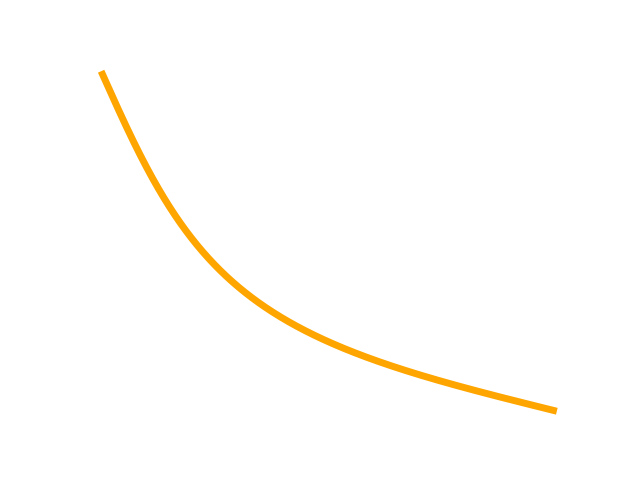
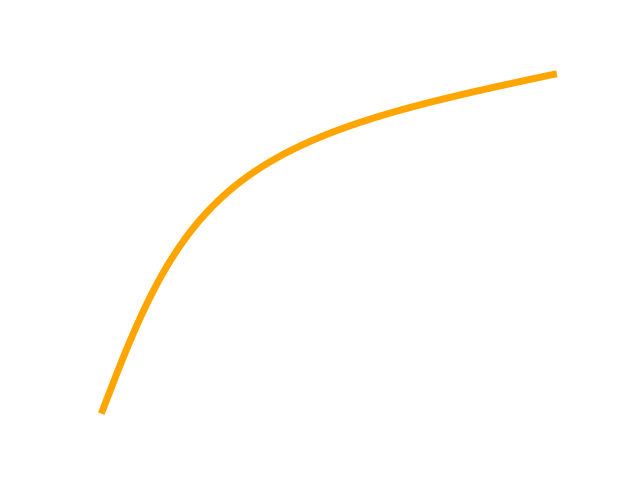
.

Changed region(s): [[0.1562, 0.125, 0.875, 0.875], [0.3438, 0.5625, 0.6562, 0.7812], [0.6562, 0.7812, 0.875, 0.875]]

diff --git a/Filter/filterDesignUI.py b/Filter/filterDesignUI.py
@@ -11,9 +11,9 @@ import webbrowser
 
 import icons as icons
 import pyqtgraph as pg
-from customPlotWidget_Mouse import CustomPlotWidget
+from Classes.customPlotWidget_Mouse import CustomPlotWidget
+from Classes.libraryButton import ProcessButton
 from filterDesignBackend import Backend
-from libraryButton import ProcessButton
 from PyQt5 import QtCore, QtGui, QtWidgets
 from PyQt5.QtCore import QRegExp
 from PyQt5.QtGui import QValidator
@@ -212,9 +212,16 @@ class Ui_FilterDesigner(object):
         self.allPassPhaseResponse.setLabel("bottom", "Frequency [rad/sample]")
         self.allPassPhaseResponse.setLabel("left", "Phase [radians]")
         self.verticalLayout_8.addWidget(self.allPassPhaseResponse)
-        self.applyAllPassFilter = QtWidgets.QPushButton(self.dockWidgetContents_3)
-        self.applyAllPassFilter.setObjectName("applyFilterButton_2")
-        self.verticalLayout_8.addWidget(self.applyAllPassFilter)
+        self.correctPhase = QtWidgets.QPushButton(self.dockWidgetContents_3)
+        self.correctPhase.setObjectName("applyFilterButton_2")
+        self.verticalLayout_8.addWidget(self.correctPhase)
+
+        ### label for error upon correcting phase
+        self.filterNotChosen = QtWidgets.QLabel()
+        self.verticalLayout_8.addWidget(self.filterNotChosen)
+        self.filterNotChosen.setStyleSheet("letter-spacing: 3px;")
+        self.filterNotChosen.setVisible(False)
+
         self.allPassLibrary.setWidget(self.dockWidgetContents_3)
         FilterDesigner.addDockWidget(QtCore.Qt.DockWidgetArea(2), self.allPassLibrary)
         self.dockWidget_3 = QtWidgets.QDockWidget(FilterDesigner)
@@ -280,9 +287,9 @@ class Ui_FilterDesigner(object):
 
         circle_roi.removeHandle(0)
         # Set the view range
-        self.unitCirclePlot.setMouseEnabled(x=False, y=False)
-        self.unitCirclePlot.setRange(xRange=(-1, 1), yRange=(-1, 1))
-        self.unitCirclePlot.setLimits(xMin=-1.1, xMax=1.1, yMin=-1.1, yMax=1.1)
+        # self.unitCirclePlot.setMouseEnabled(x=False, y=False)
+        # self.unitCirclePlot.setRange(xRange=(-1, 1), yRange=(-1, 1))
+        # self.unitCirclePlot.setLimits(xMin=-1.1, xMax=1.1, yMin=-1.1, yMax=1.1)
 
         self.horizontalLayout_2.addWidget(self.unitCirclePlot)
 
@@ -544,9 +551,7 @@ class Ui_FilterDesigner(object):
         self.addAllPassFilter.setText(
             _translate("FilterDesigner", "Add custom all-pass filter")
         )
-        self.applyAllPassFilter.setText(
-            _translate("FilterDesigner", "Apply All-Pass Filter")
-        )
+        self.correctPhase.setText(_translate("FilterDesigner", "Correct Phase"))
         self.dockWidget_3.setWindowTitle(
             _translate("FilterDesigner", "Z-Plane Filter Design")
         )

diff --git a/Filter/filterDesignBackend.py b/Filter/filterDesignBackend.py
@@ -6,7 +6,7 @@ import numpy as np
 import pandas as pd
 import pyqtgraph as pg
 import wfdb
-from libraryButton import ProcessButton
+from Classes.libraryButton import ProcessButton
 from PyQt5 import QtCore, QtGui
 from PyQt5.QtCore import QTimer
 from PyQt5.QtWidgets import QAction, QFileDialog, QMenu
@@ -35,7 +35,7 @@ class Backend:
         self.ui.exportFilter.clicked.connect(lambda: self.export_filter())
         self.ui.speed_slider.valueChanged.connect(lambda: self.update_speed())
         self.ui.applyFilterButton.clicked.connect(lambda: self.apply_filter())
-        self.ui.applyAllPassFilter.clicked.connect(
+        self.ui.correctPhase.clicked.connect(
             lambda: self.plot_all_pass_zeros_and_poles()
         )
         self.ui.addAllPassFilter.clicked.connect(lambda: self.add_all_pass_filter())
@@ -576,18 +576,30 @@ class Backend:
         return save_path
 
     def plot_all_pass_zeros_and_poles(self):
-        # Iterate over the zeros positions and plot them
-        for zero_position in self.all_pass_zeros_positions:
-            item = pg.ScatterPlotItem(
-                [zero_position[0]], [zero_position[1]], marker="o", color="g"
-            )
-            self.ui.unitCirclePlot.addItem(item)
-        # Iterate over the poles positions and plot them
-        for pole_position in self.all_pass_poles_positions:
-            item = pg.ScatterPlotItem(
-                [pole_position[0]], [pole_position[1]], marker="o", color="g"
-            )
-            self.ui.unitCirclePlot.addItem(item)
+        if len(self.cascaded_filters) == 0:
+            self.show_error(self.ui.filterNotChosen, "Please, Pick a filter!")
+            return
+        else:
+            # Iterate over the zeros positions and plot them
+            for zero_position in self.all_pass_zeros_positions:
+                item = TargetItem(
+                    pos=zero_position,
+                    size=10,
+                    movable=False,
+                    symbol="o",
+                    pen=pg.mkPen("g"),
+                )
+                self.ui.unitCirclePlot.addItem(item)
+            # Iterate over the poles positions and plot them
+            for pole_position in self.all_pass_poles_positions:
+                item = TargetItem(
+                    pos=pole_position,
+                    size=10,
+                    movable=False,
+                    symbol="x",
+                    pen=pg.mkPen("r"),
+                )
+                self.ui.unitCirclePlot.addItem(item)
 
     # GENERATE SIGNAL BY MOUSE MOVEMENT
     def start_generating(self, checked):

diff --git a/Filter/Classes/libraryButton.py b/Filter/Classes/libraryButton.py
@@ -1,17 +1,6 @@
-import sys
-
-from PyQt5.QtCore import QSize, Qt
-from PyQt5.QtGui import QIcon, QPixmap
-from PyQt5.QtWidgets import (
-    QApplication,
-    QGraphicsProxyWidget,
-    QGraphicsScene,
-    QGraphicsView,
-    QLabel,
-    QMainWindow,
-    QPushButton,
-    QVBoxLayout,
-)
+from PyQt5.QtCore import Qt
+from PyQt5.QtGui import QPixmap
+from PyQt5.QtWidgets import QLabel, QPushButton, QVBoxLayout
 
 
 class ProcessButton(QPushButton):
@@ -19,6 +8,8 @@ class ProcessButton(QPushButton):
         super(ProcessButton, self).__init__(parent)
 
         self.allPassValue = allPassValue
+        self.image_path = image_path
+        self.name = name
 
         layout = QVBoxLayout(self)
         layout.setAlignment(Qt.AlignCenter)
@@ -34,3 +25,7 @@ class ProcessButton(QPushButton):
 
         self.setFixedSize(100, 100)
         self.setCheckable(True)
+
+    def clone(self):
+        # Create a new instance with the same attributes
+        return ProcessButton(self.name, self.image_path, self.allPassValue)
